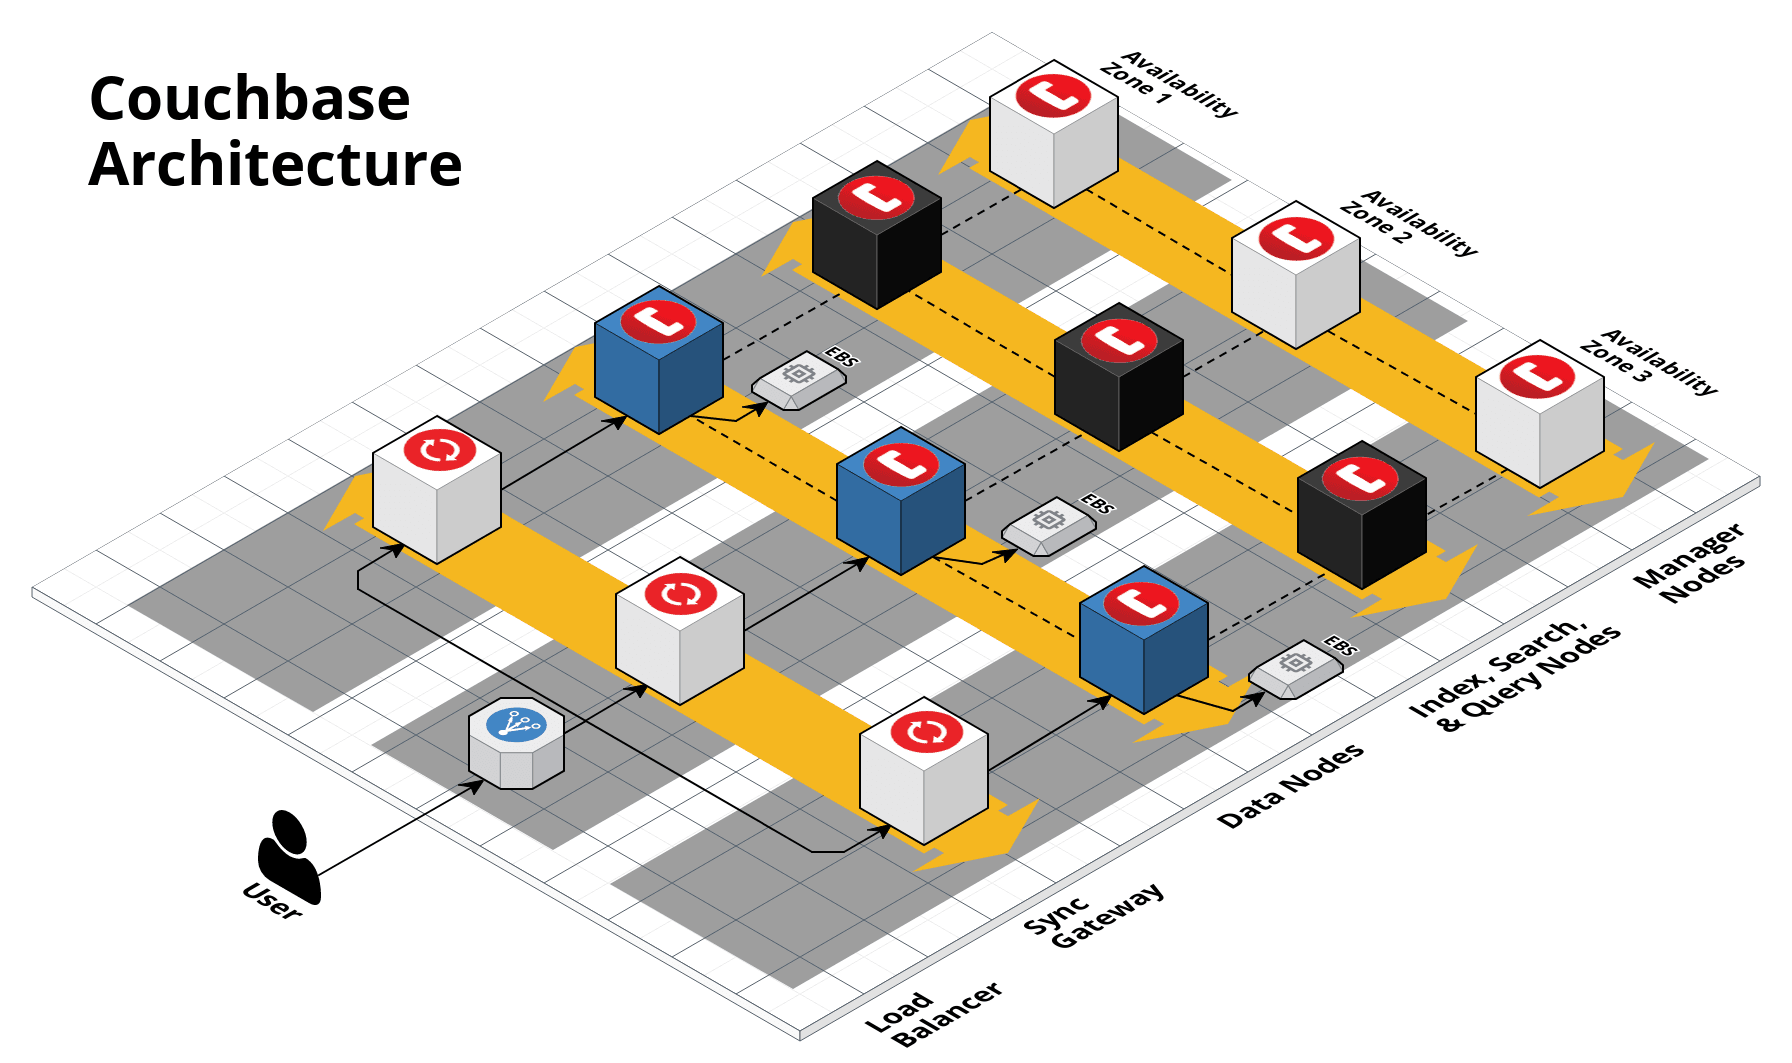
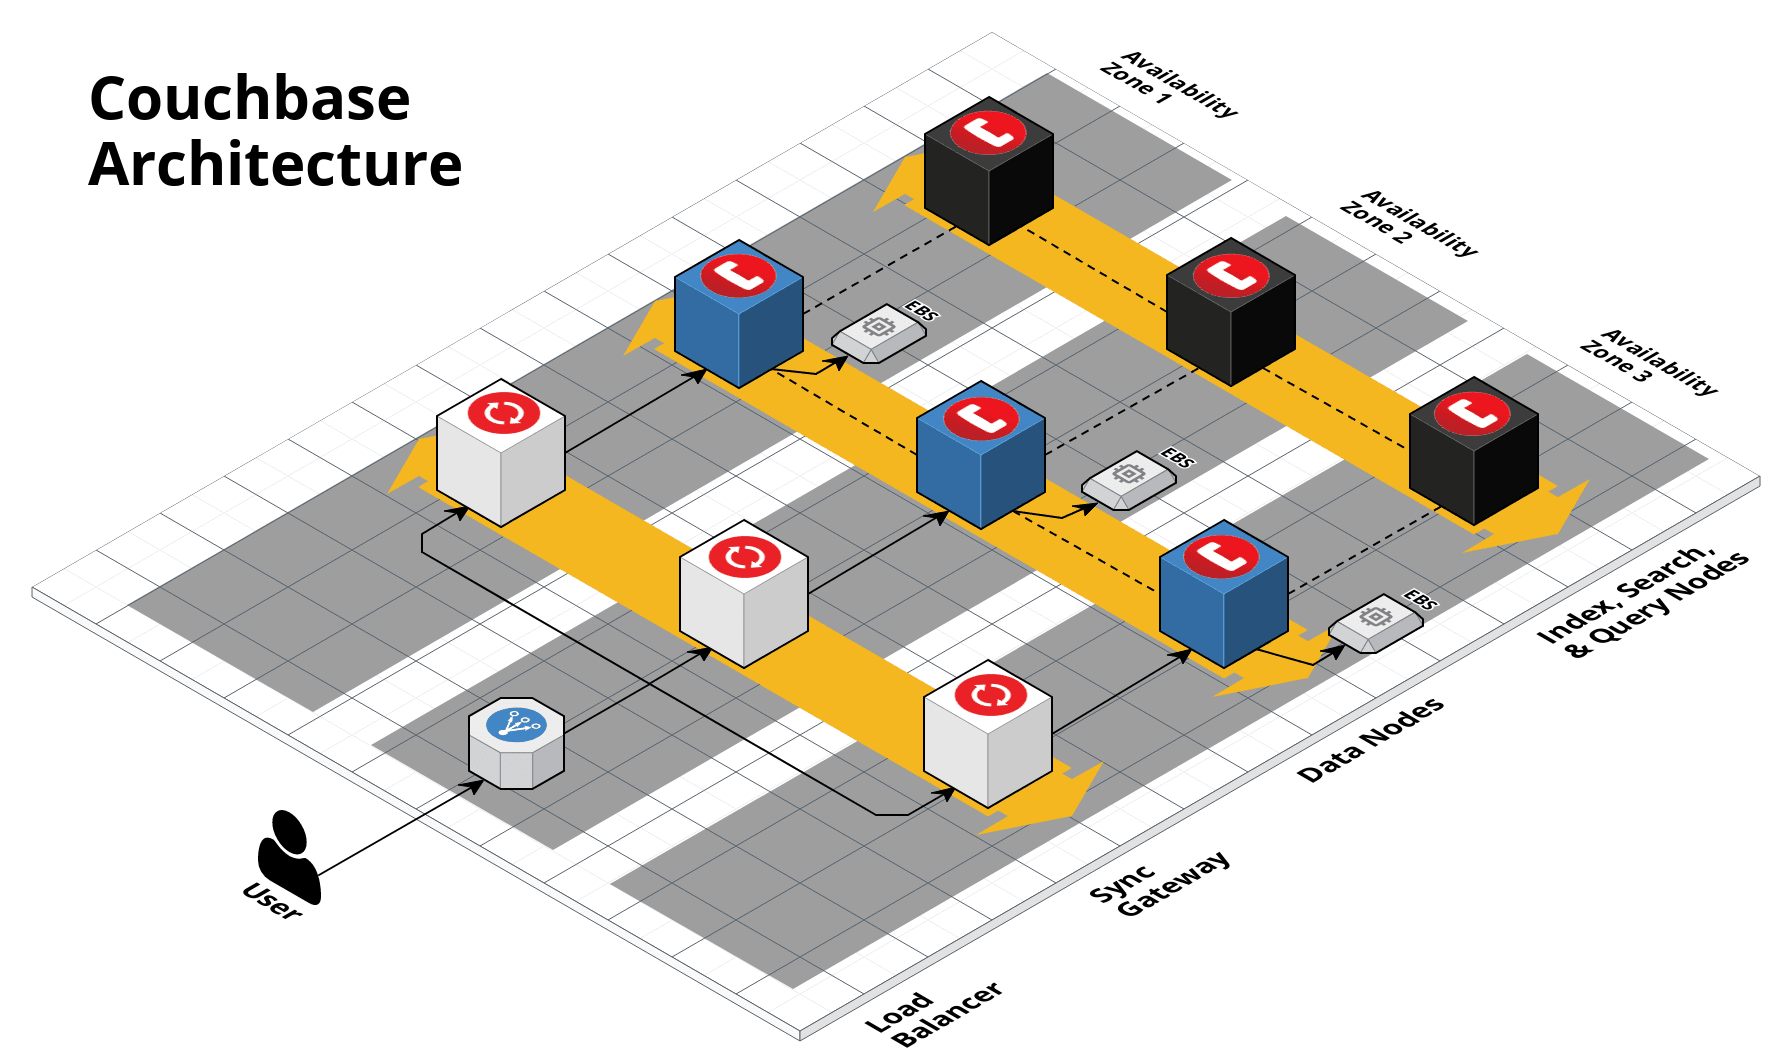
Remove mention of manager nodes

diff --git a/examples/couchbase-multi-cluster/README.md b/examples/couchbase-multi-cluster/README.md
@@ -3,8 +3,8 @@
 This folder shows an example of Terraform code that uses the 
 [couchbase-cluster](https://github.com/gruntwork-io/terraform-aws-couchbase/tree/master/modules/couchbase-cluster) 
 module to deploy a [Couchbase](https://www.couchbase.com/) cluster in [AWS](https://aws.amazon.com/). The cluster 
-consists of four Auto Scaling Groups (ASGs): one for data nodes, one for index, query, and search nodes, one for 
-manager nodes, and one for SyncGateway nodes. 
+consists of three Auto Scaling Groups (ASGs): one for data nodes, one for index, query, and search nodes, and one for 
+SyncGateway nodes. 
 
 ![Couchbase multi-cluster architecture](https://github.com/gruntwork-io/terraform-aws-couchbase/blob/master/_docs/couchbase-multi-cluster-architecture.png?raw=true)
 

diff --git a/modules/couchbase-cluster/README.md b/modules/couchbase-cluster/README.md
@@ -2,7 +2,7 @@
 
 This folder contains a [Terraform](https://www.terraform.io/) module to deploy a 
 [Couchbase](https://www.couchbase.com/) cluster in [AWS](https://aws.amazon.com/) on top of an Auto Scaling Group. 
-This module can be used to deploy any or all of the Couchbase services (data, search, index, query, manager) or Sync
+This module can be used to deploy any or all of the Couchbase services (data, search, index, query) or Sync
 Gateway. The idea is to create an [Amazon Machine Image (AMI)](http://docs.aws.amazon.com/AWSEC2/latest/UserGuide/AMIs.html)
 that has Couchbase and/or Sync Gateway installed using the 
 [install-couchbase-server](https://github.com/gruntwork-io/terraform-aws-couchbase/tree/master/modules/install-couchbase-server) and/or
